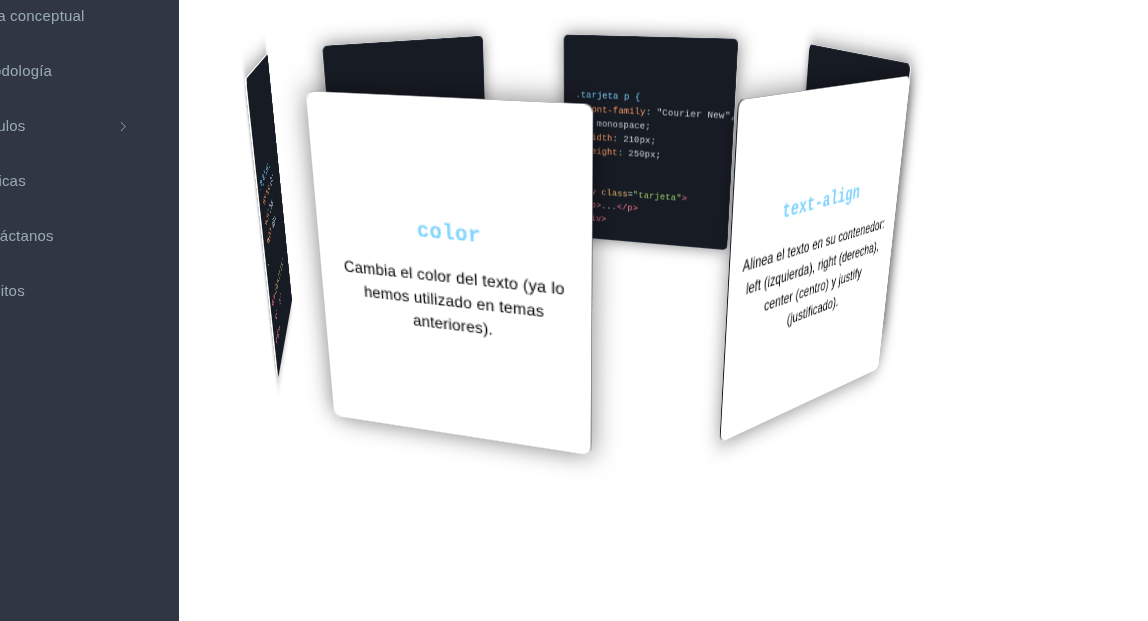
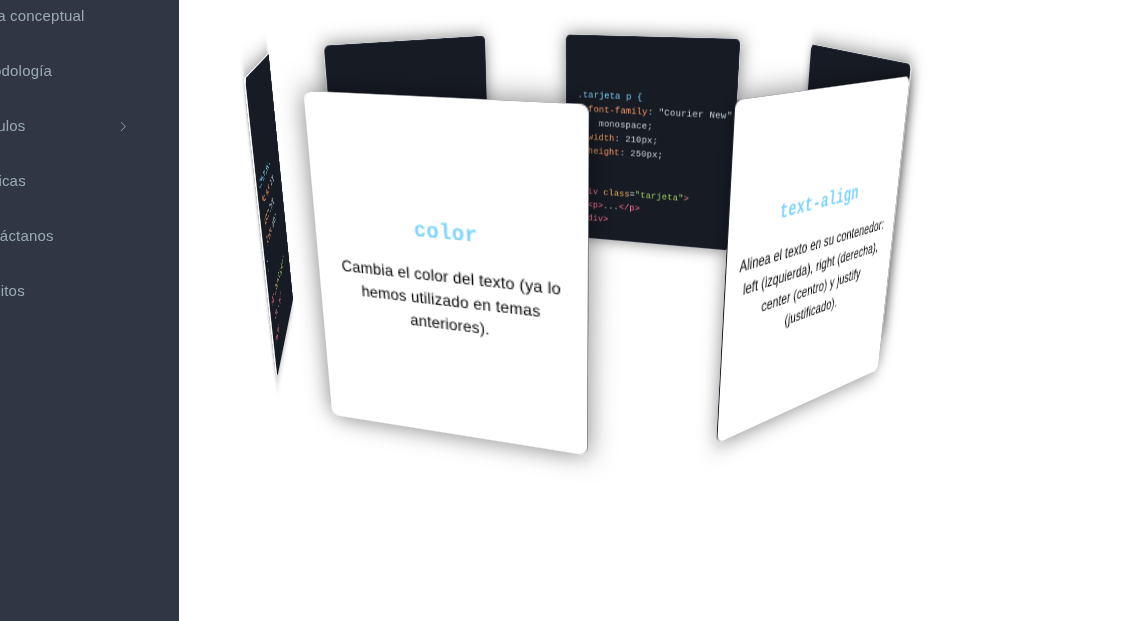
Changes

diff --git a/assets/css/modulos/modulo3/modulo3-17-carousel.css b/assets/css/modulos/modulo3/modulo3-17-carousel.css
@@ -169,7 +169,7 @@
   line-height: 1.55;
   text-align: left;
   white-space: pre;
-  transform: rotateZ(180deg) rotateY(180deg);
+  transform: rotateX(180deg);
 }
 
 .text-carousel__code span {
